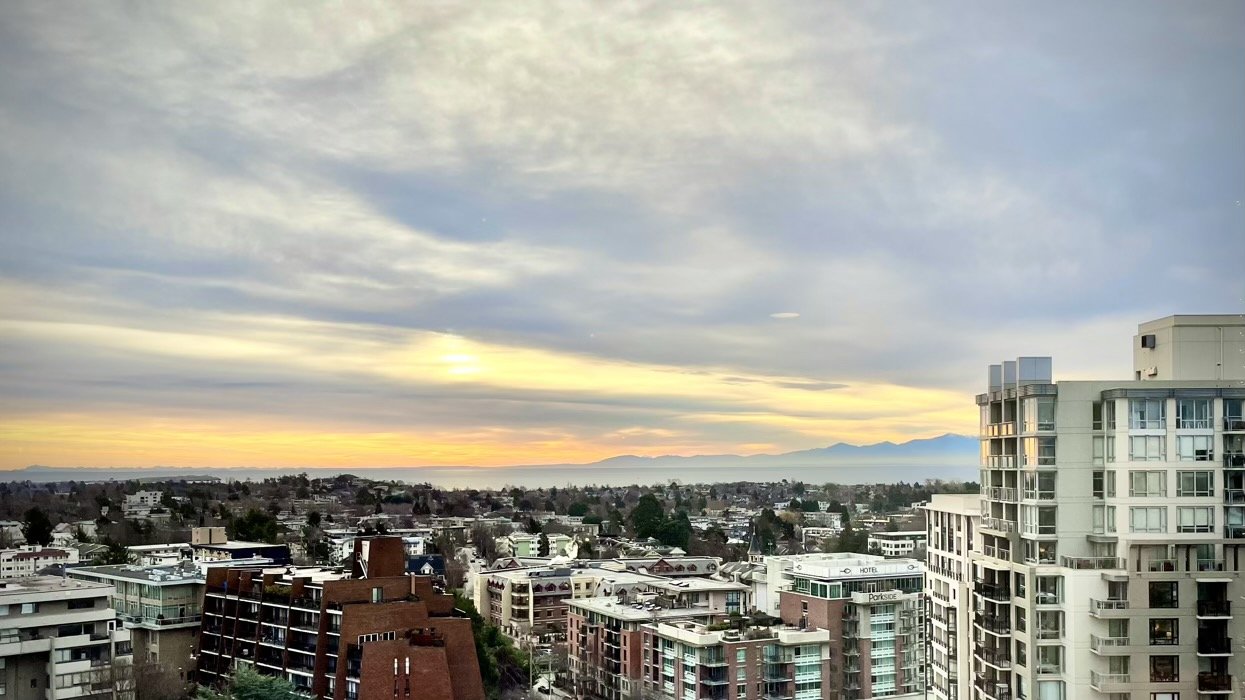
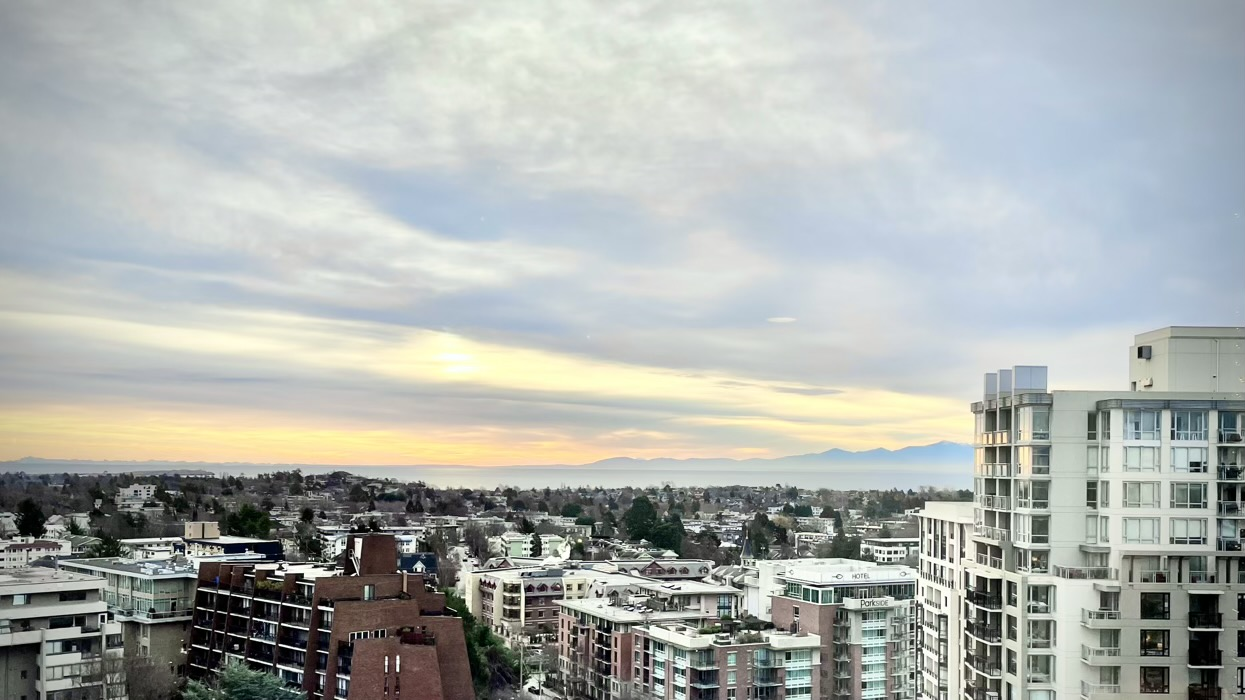
Training log update

diff --git a/content/traininglog/20230101-challenge2023-25weeksout.md b/content/traininglog/20230101-challenge2023-25weeksout.md
@@ -14,7 +14,7 @@ I feel like I was...
 
 &mdash;
 
-![A really nice sunrise to start the new year here in Victoria, Canada.](/assets/jpg/IMG_4517-977x550.jpeg VISTA 18 AT THE CHATEAU VICTORIA HOTEL)
+![A really nice sunrise to start the new year here in Victoria, Canada.](/assets/jpg/IMG_4517-977x550.jpeg?v2 VISTA 18 RESTAURANT)
 
 ## SUNDAY JAN 1 🎉
 Sleep **2** | Fatigue **2** | Stress **2** | Soreness **3**
@@ -26,11 +26,10 @@ Trainer 80 minutes. Easy effort. Light spinning.
 ### NOTES
 Total Time: **80 Mins** &nbsp; Normalized Power: **132W**
 
-As prescribed, easy effort.
-
+As prescribed, easy effort with a couple of small, manual changes to the trainer resistance over the course of the activity.
 ![Bike](/assets/jpg/bike-20230101.jpeg)
 
-Seahawks beat the Jets too!
+Seahawks beat the Jets to keep the fan base excited.
 
 <!---->
 ## MONDAY JAN 2 ☁
@@ -105,7 +104,7 @@ Question answered. I finally went sub-30 minutes to the north entrance to the pa
 Appearantly I wasn't done because after the gate, there is a 2.1 km Strava Segment that includes my favorite bit of single track; I crushed that today too.
 
 #### TLR weekly cfg 4:  13:51
-![Bike](/assets/jpg/bike-20230104.jpeg)
+![Bike](/assets/jpg/bike-20230104.jpeg?v2)
 
 30 psi did have an adverse effect on traction on the steep rocky bits.
 
@@ -113,8 +112,8 @@ It was nice to get this ride in before the weather turns wet for the foresable f
 
 
 <!---->
-## THURSDAY JAN 5
-Sleep **-** | Fatigue **-** | Stress **-** | Soreness **-**
+## THURSDAY JAN 5 ☁
+Sleep **4** | Fatigue **3** | Stress **2** | Soreness **3**
 <sup><br />Rate on an scale 1-7 &nbsp; 1=best 7=worst &nbsp; +5 is a warning</sup>
 
 ### PLANNED WORKOUT
@@ -128,7 +127,7 @@ Pre-run: **Dead bugs, breathing, and Glute Bridges.**
 Run 50 minutes. Hilly route. EASY effort.
 
 ### NOTES
-Total Time: **0 Minutes**
+Total Time: **0 Mins** &nbsp;Swim: **0m** &nbsp;Run: **0 km**
 
 &mdash;  
 
